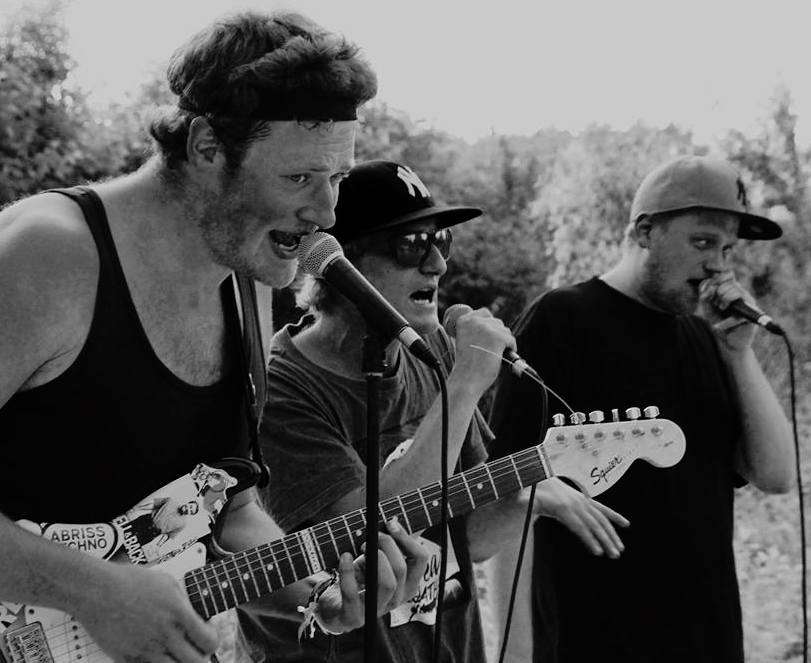
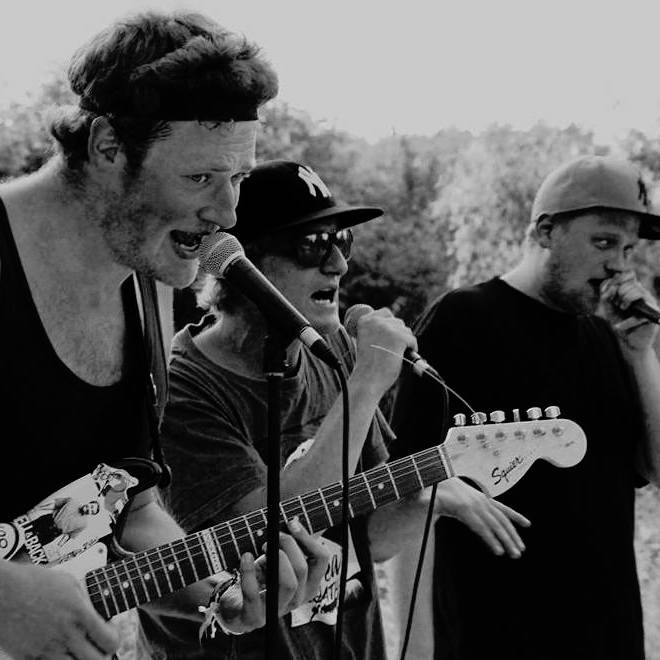
Change of artists picture size

diff --git a/assets/css/main.css b/assets/css/main.css
@@ -569,3 +569,7 @@ h1 a, h2 a, h3 a, h4 a {
 .vvk img{
   width:200px;
 }
+
+.timetable img {
+  width: 100%
+}

diff --git a/site/templates/lineup.php b/site/templates/lineup.php
@@ -1,0 +1,14 @@
+<?php snippet('header') ?>
+
+  <main class="main" role="main">
+
+    <div class="text">
+      <h1><?php echo $page->heading()->html() ?></h1>
+      <div class="timetable">
+      <img src="<?php echo url('assets/images/timetable.png') ?>" alt="<?php echo $site->title()->html() ?>">
+      </div> 
+      <hr>
+    </div>
+  </main>
+
+<?php snippet('footer') ?>

diff --git a/site/templates/impressum.php b/site/templates/impressum.php
@@ -1,0 +1,13 @@
+<?php snippet('header') ?>
+
+  <main class="main" role="main">
+
+    <div class="text">
+      <h1><?php echo $page->heading()->html() ?></h1>
+      
+      <?php echo $page->text()->kirbytext() ?>
+    </div>
+<hr>
+  </main>
+
+<?php snippet('footer') ?>
